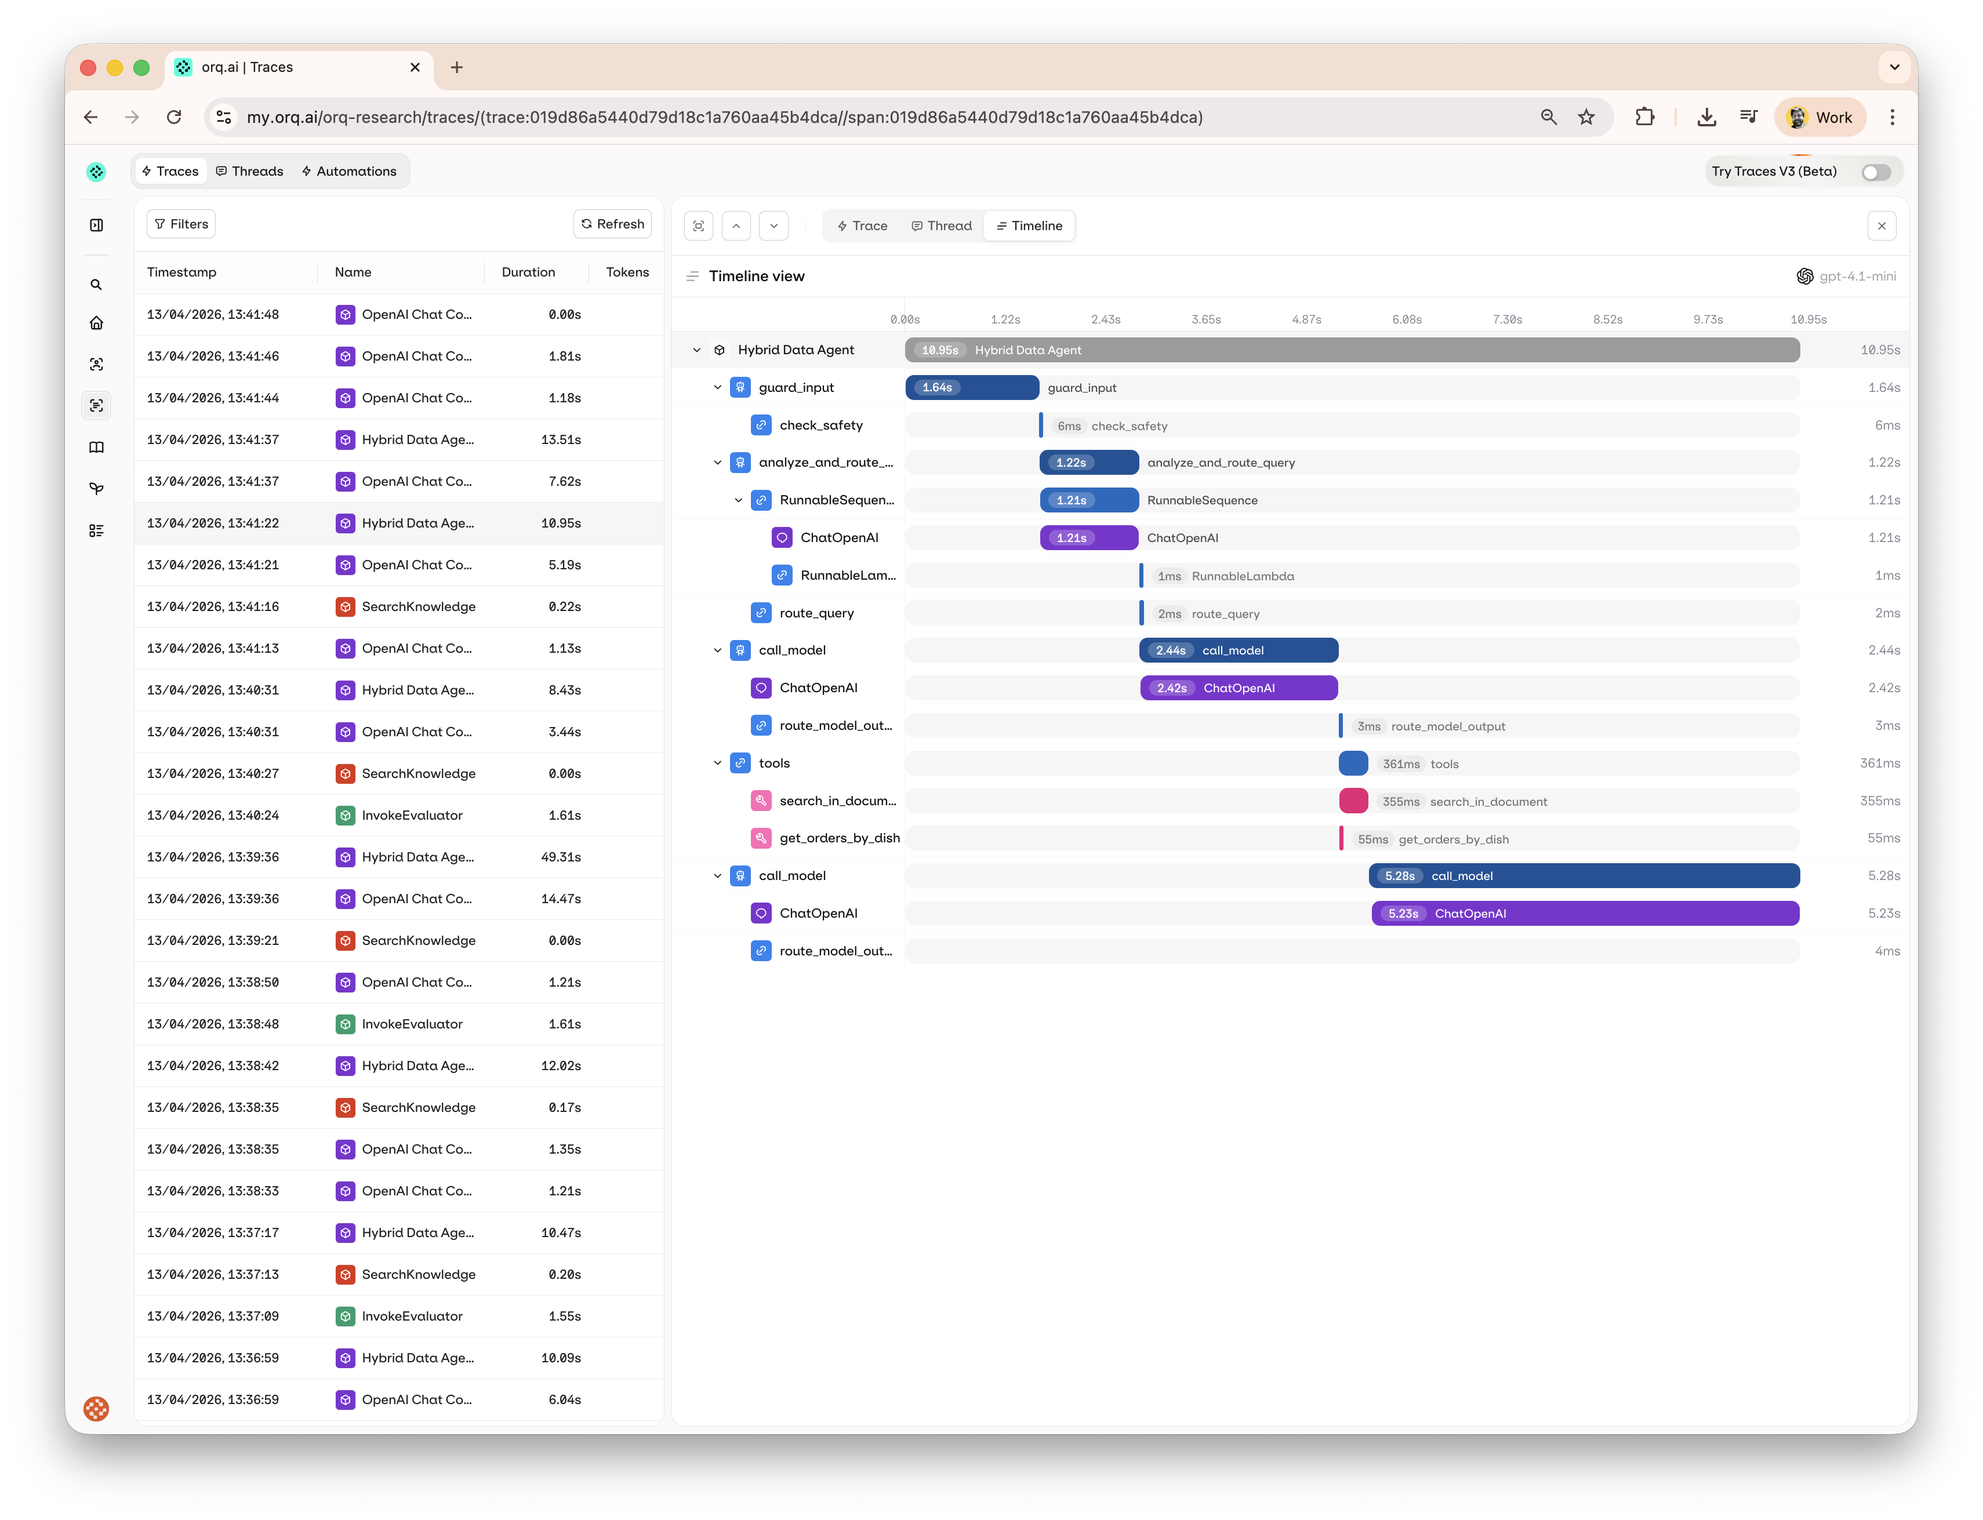
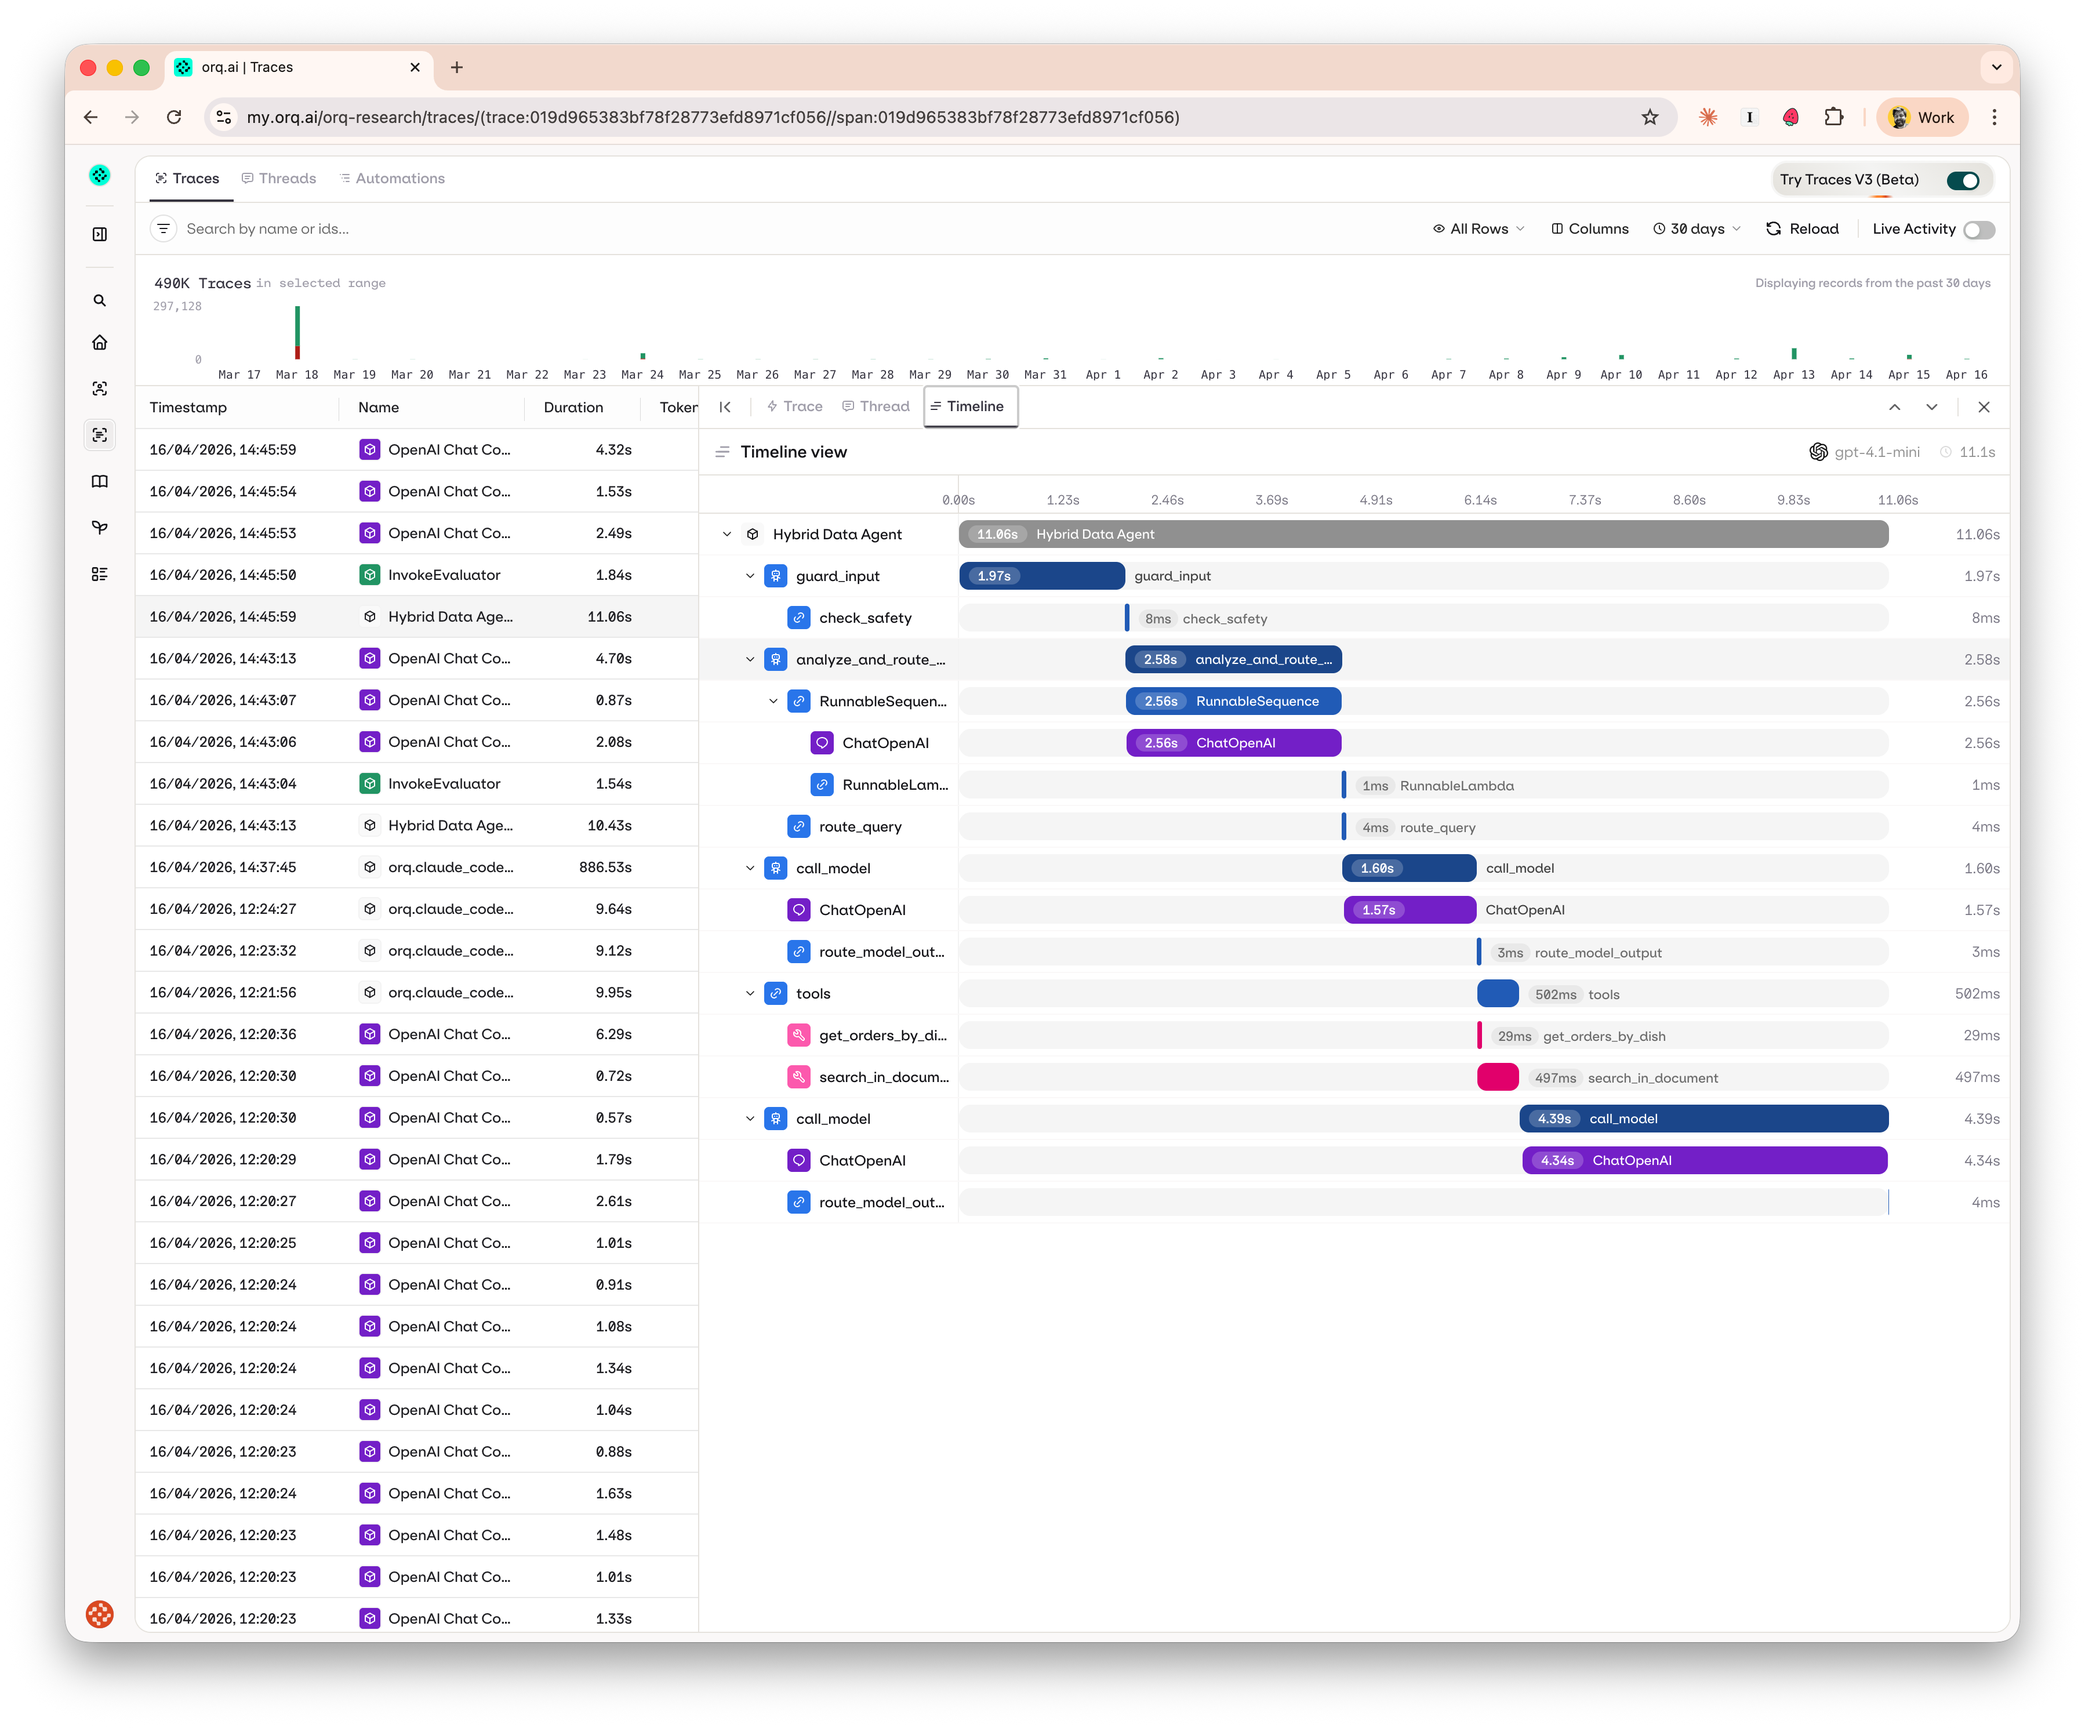
chore(demo): refresh user-facing content for the food-delivery scenario
Sweeps the last residual Toyota/automotive copy out of the demo surface
so what the user sees matches the refund-policy + order-analytics flow
that the rest of the repo already ships:

  - Chainlit starters and welcome message
  - test_agent.py sample queries and help text
  - media/tour.md narration
  - generate_demo_orders.py docstring preamble
  - Refreshed trace screenshots (details / thread / timeline)

No behavior changes — just copy and imagery.

diff --git a/test_agent.py b/test_agent.py
@@ -27,9 +27,9 @@ def test_agent():
         # Test queries
         test_queries = [
             "What documents are available?",
-            "How do I check engine oil in RAV4?",
-            "What is covered under warranty?",
-            "Tell me about maintenance schedules",
+            "What is our refund policy for late deliveries?",
+            "What allergens are in Margherita Pizza?",
+            "Tell me about food-safety temperature controls",
         ]
 
         for i, query in enumerate(test_queries, 1):
@@ -77,10 +77,10 @@ def interactive_test():
                 if query.lower() == "help":
                     print("\nTest queries you can try:")
                     print("• What documents are available?")
-                    print("• How do I check engine oil?")
-                    print("• What maintenance is required?")
-                    print("• Show me warranty information")
-                    print("• Search RAV4 manual for safety features")
+                    print("• What is our refund policy for late deliveries?")
+                    print("• What allergens are in Margherita Pizza?")
+                    print("• Show me the food-safety temperature controls")
+                    print("• Top-selling dishes in Berlin last month")
                     continue
 
                 if not query:

diff --git a/src/chainlit_app_orq.py b/src/chainlit_app_orq.py
@@ -55,8 +55,8 @@ async def set_starters():
         logger.error(f"Error loading starters: {e}")
         return [
             cl.Starter(
-                label="Toyota warranty",
-                message="What is the Toyota warranty for Europe?",
+                label="Refund policy",
+                message="What is our refund policy for late deliveries?",
             ),
         ]
 
@@ -76,9 +76,9 @@ async def start():
             "This agent is configured entirely in the orq.ai Studio — "
             "instructions, tools, and Knowledge Base wiring live there, "
             "not in this repo.\n\n"
-            "Try asking a question about warranties, manuals, or contracts. "
-            "(Sales data queries aren't wired up in this version — use "
-            "`make run` for the LangGraph version that handles both.)"
+            "Try asking a question about refund policy, food safety, allergens, "
+            "or the operations handbook. (Order-data queries aren't wired up in "
+            "this version — use `make run` for the LangGraph version that handles both.)"
         )
     ).send()
 

diff --git a/src/chainlit_app.py b/src/chainlit_app.py
@@ -132,12 +132,12 @@ async def set_starters():
         # Just show something simple if the CSV loading fails
         return [
             cl.Starter(
-                label="Toyota vs Lexus warranty",
-                message="Compare Toyota vs Lexus warranty",
+                label="Refund policy",
+                message="What is our refund policy for late deliveries?",
             ),
             cl.Starter(
-                label="RAV4 sales in Germany in 2024",
-                message="What was the monthly RAV4 sales in Germany in 2024?",
+                label="Margherita orders in Berlin 2024",
+                message="What was the monthly Margherita Pizza order count in Berlin in 2024?",
             ),
         ]
 

diff --git a/scripts/generate_demo_orders.py b/scripts/generate_demo_orders.py
@@ -1,8 +1,8 @@
 #!/usr/bin/env python3
 """Generate the synthetic food-delivery demo dataset.
 
-Emits four CSVs under `data/` that mirror the shape of the legacy Toyota
-dataset (dimension tables + one fact table aggregated at month grain):
+Emits four CSVs under `data/` — dimension tables + one fact table aggregated
+at month grain:
 
     data/DIM_CITY.csv        city_id, city_name, country, region
     data/DIM_DISH.csv        dish_id, dish_name, cuisine, category,

diff --git a/media/tour.md b/media/tour.md
@@ -9,7 +9,7 @@ you (or I) record it.
 ## Sequence
 
 1. **Terminal** (1s) — `make run` → Chainlit opens on localhost:8000
-2. **Chainlit UI** (3s) — type "What is the Toyota warranty for Europe?" → press Enter
+2. **Chainlit UI** (3s) — type "What is our refund policy for late deliveries?" → press Enter
 3. **Streaming response** (3s) — agent streams the answer with PDF citations
 4. **Switch to browser tab** (1s) — orq.ai Studio → Traces tab
 5. **Click the newest trace** (2s) — tree view expands showing:
